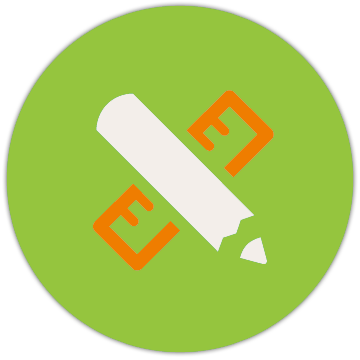
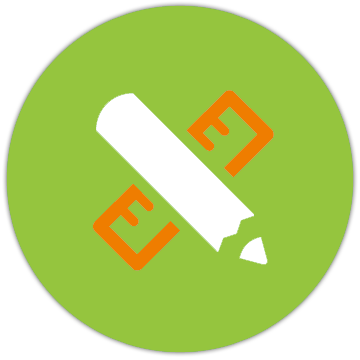
ikonki po korekcie

diff --git a/index.html b/index.html
@@ -631,7 +631,7 @@
           </div>
           <div class="col-md-4">
             <p class="photo">
-            <a href="/team/wiktor-s"><img alt="Wiktor s on" src="img/team/fotka.JPG"></a>
+            <a href="/team/wiktor-s"><img alt="Wiktor s on" src="img/team/milosz_BW.png"></a>
             </p>
             <h3>Miłosz Osiński</h3>
           </div>
